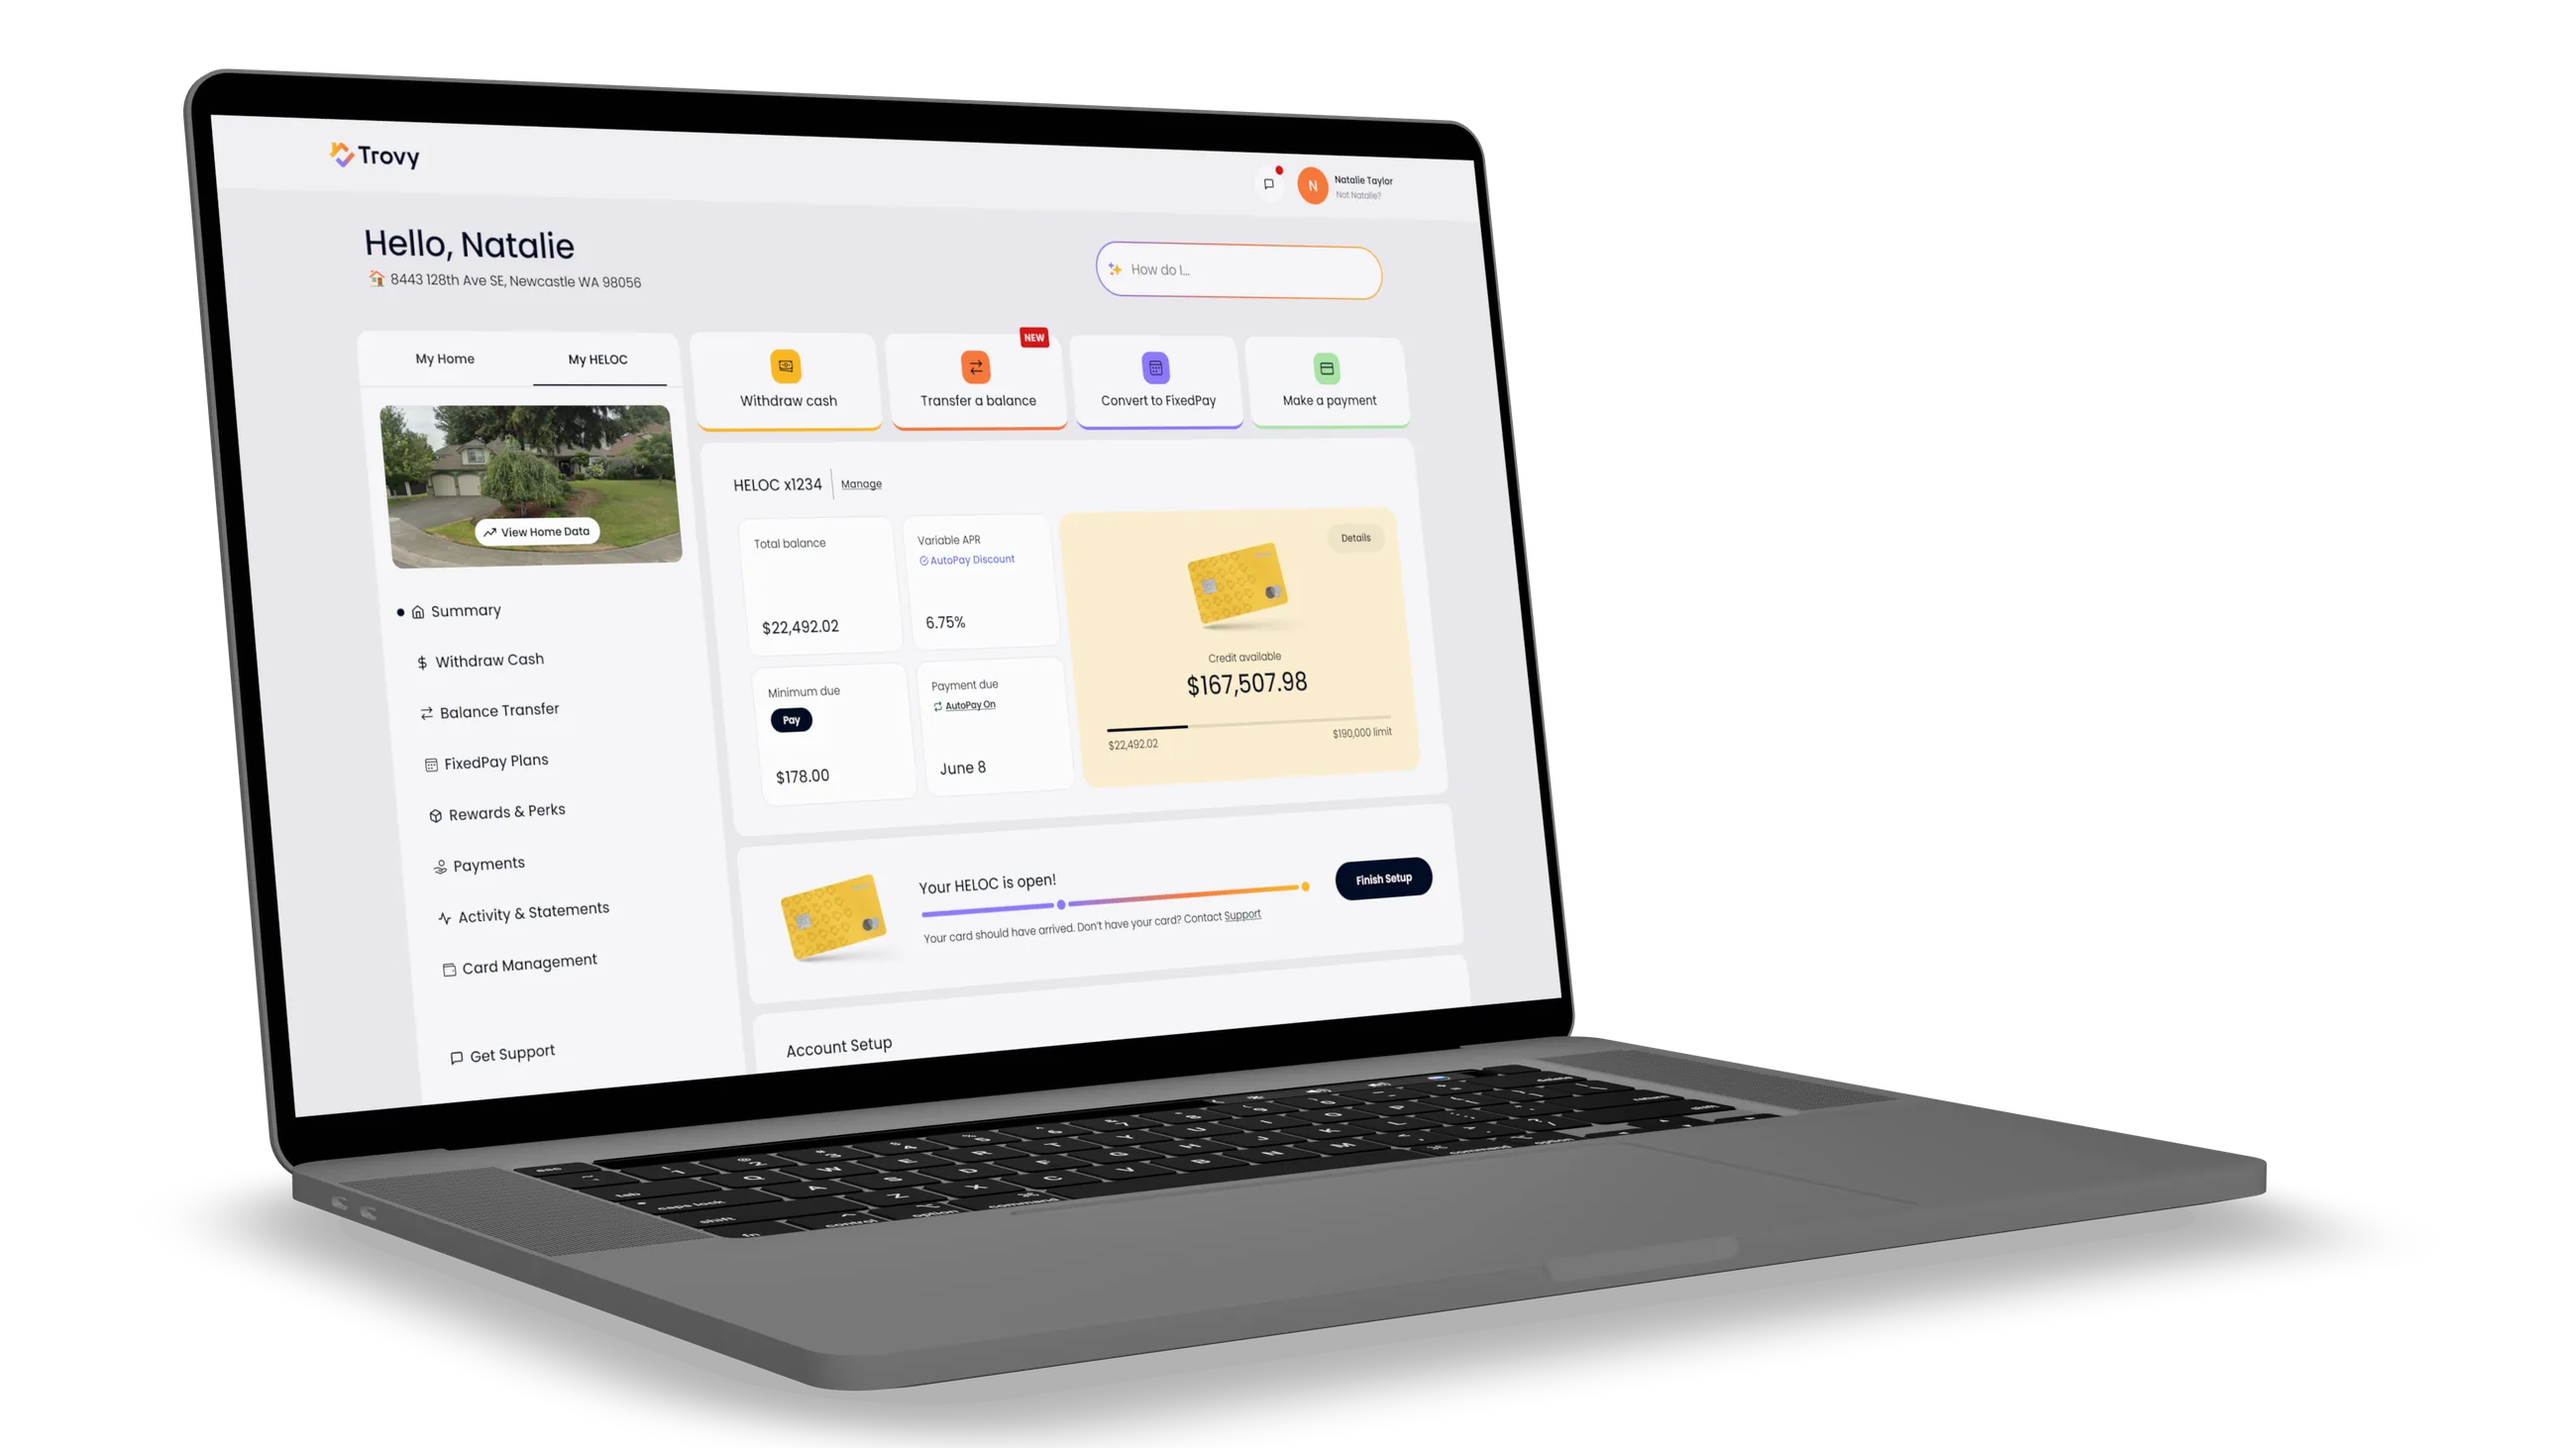
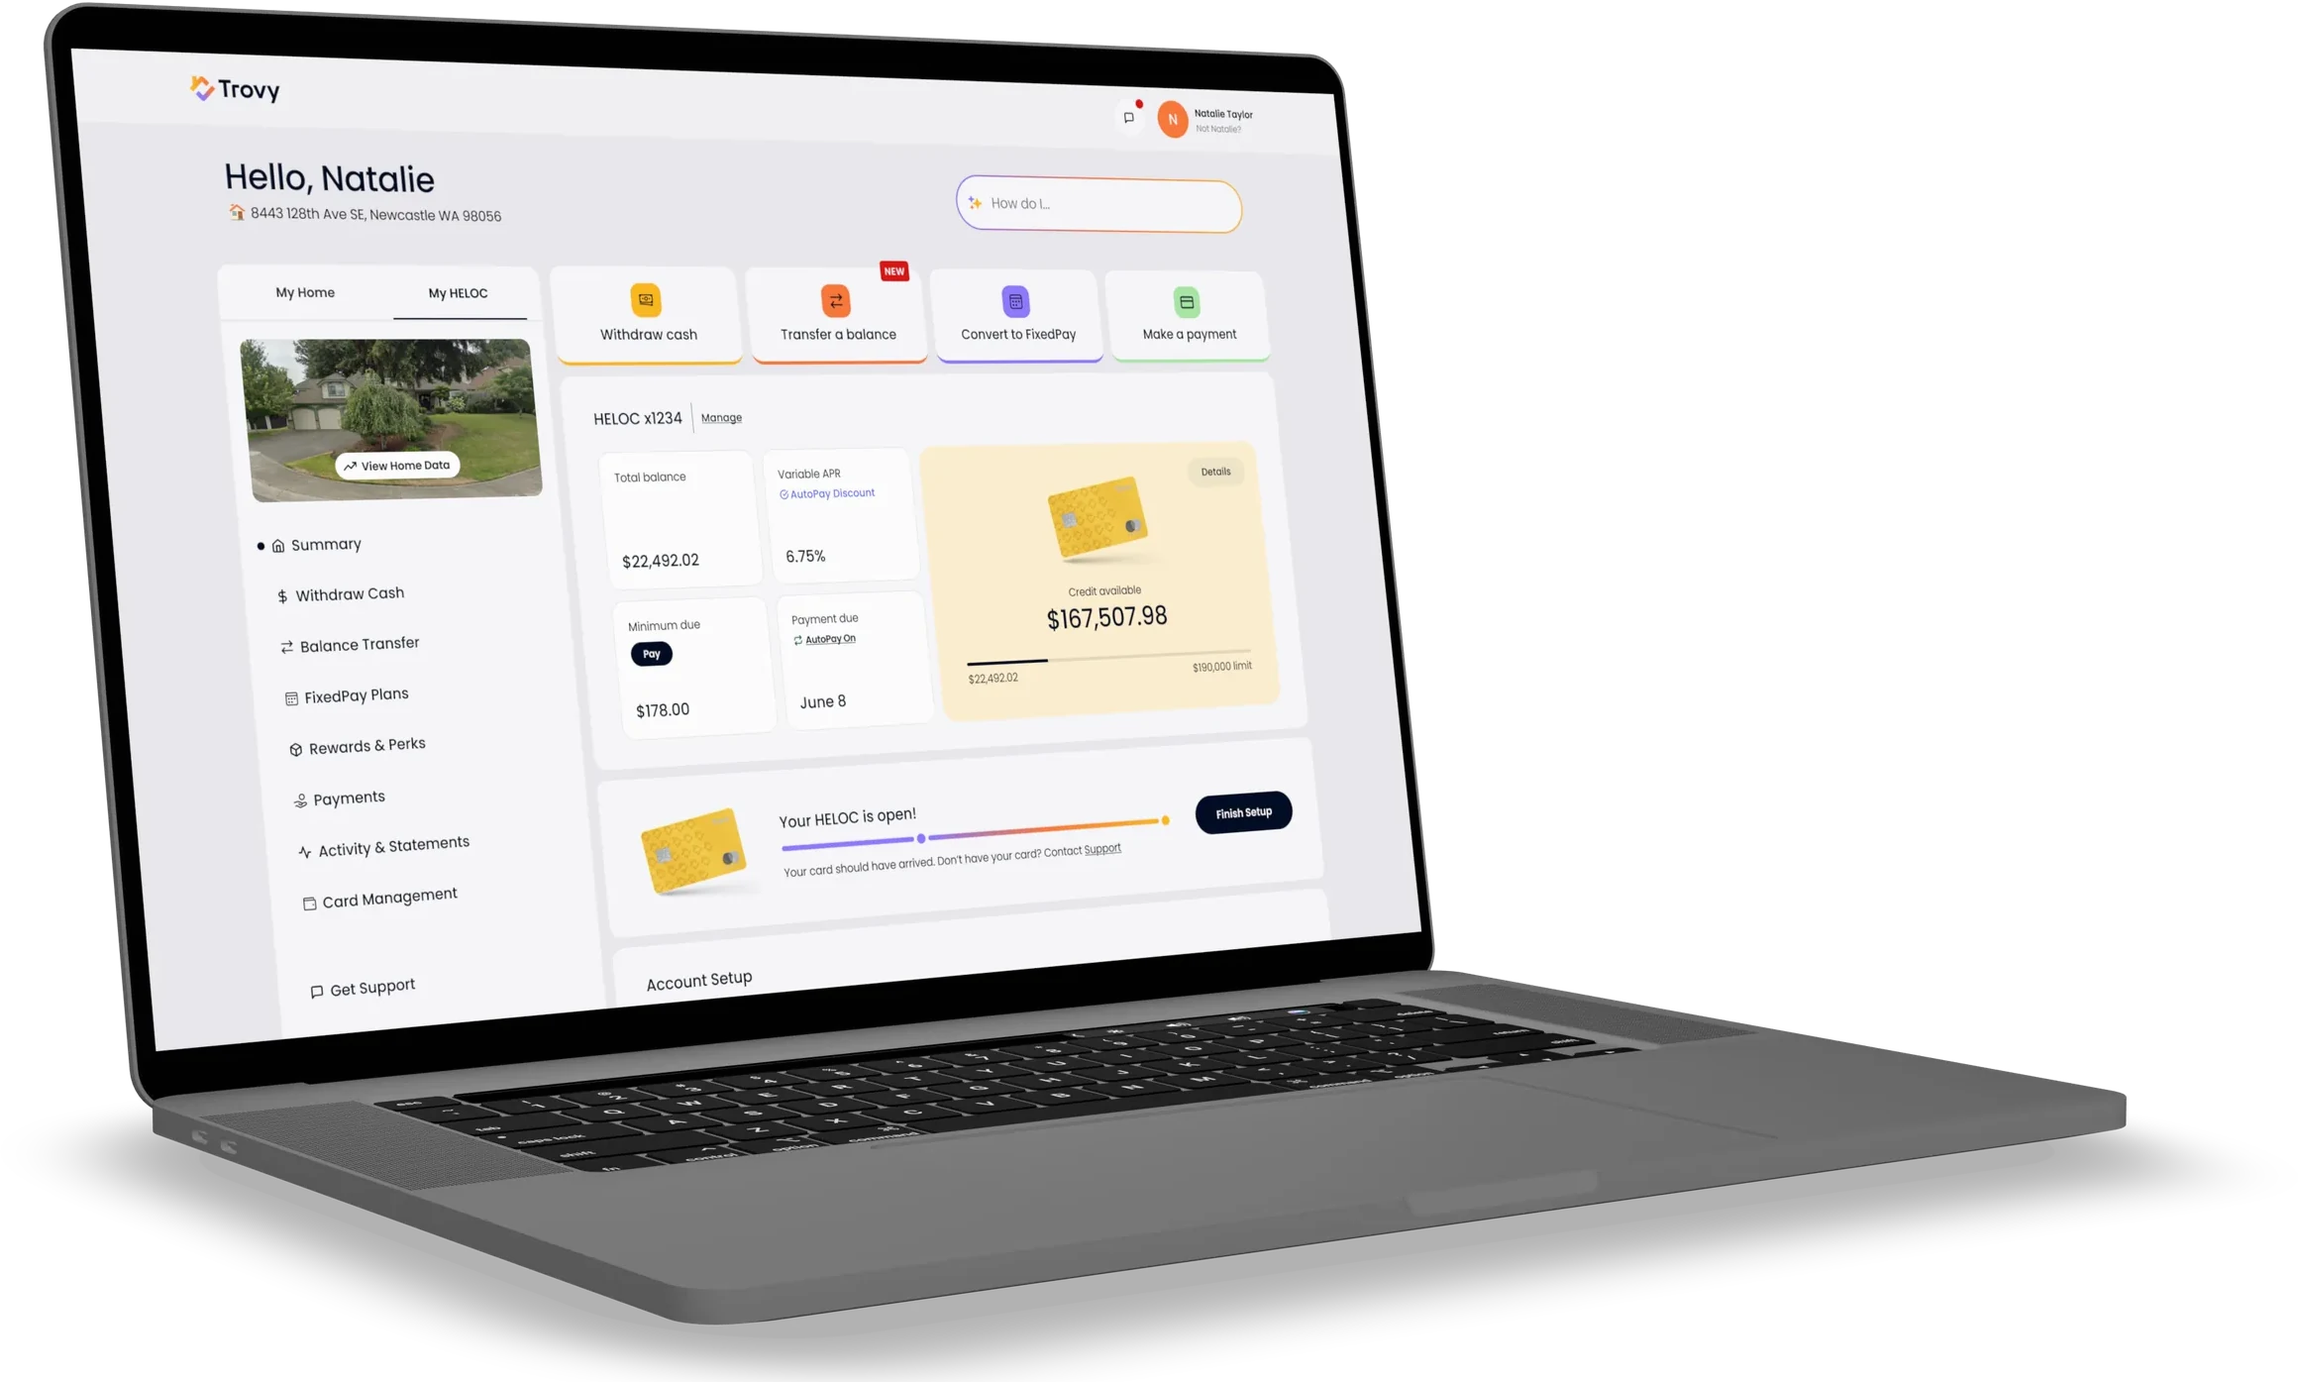
Trovy: center the Renovate and Job 2 device compositions (crop laptop images to their content), drop the faint box behind the Renovate phone
Claude-Session: https://claude.ai/code/session_01CMDmWeShGjW6J6maayvQQe

diff --git a/site/case-studies/trovy-design-engineer/index.html b/site/case-studies/trovy-design-engineer/index.html
@@ -70,7 +70,7 @@
           <p class="tv-b22 tv-mt56" data-a>Trovy went from 0–100MM PMV in one year of operation by relentlessly alleviating friction in the application flow. A HELOC is one of the cheapest ways to borrow, but it usually means weeks of paperwork and a draw request every time you need money. Trovy is a fully online HELOC, $25k to $250k, with the line on a card: swipe it at a low variable rate, take out cash or pay off balances at a fixed rate. Approval in as little as 4 minutes, funding in as few as 4 business days.</p>
           <p class="tv-cta tv-mt56" data-a>Tap through the prequal flow to see for yourself.</p></div><div class="ab tc" style="--x:1109;--y:77;--w:399"><div class="tv-phone" data-a><iframe data-src="../../proto/trovy-apply/" title="Interactive prototype of the Trovy application" tabindex="-1"></iframe></div>
           <p class="tv-hint" data-a>Live prototype · tap through it</p></div><div class="ab tv-noteab" style="--x:1523;--y:70;--w:150"><img class="tv-note" data-a src="../../assets/cs/trovy/v2/note-apply.webp" alt="Handwritten note: Figma + Claude"></div></div></div></section><section class="cs-slide cs-v4 tv2 cs-job2 " data-key="job2" data-chapter="0" data-steps="1" data-bg="linear-gradient(180deg,#fb793a 0%,#fdba1f 100%)" aria-label="job2"><div class="cs-fit"><div class="cs-scene"><div class="ab tc" style="--x:227;--y:72;--w:1275"><h2 class="sh64" data-a>Job 2: Go beyond table stakes.</h2>
-          <p class="tv-b28 tv-w951" data-a>I designed the functionality that’s expected from any fintech product, in order to then build something delightful and distinctive.</p></div><div class="ab " style="--x:329;--y:270;--w:1318;--h:741"><img class="tv-fill" data-a src="../../assets/cs/trovy/v2/laptop-dash.webp" alt="The Trovy account dashboard on a laptop: credit available, quick actions and account setup" loading="lazy"></div></div></div></section><section class="cs-slide cs-v4 tv2 cs-brand " data-key="brand" data-chapter="0" data-steps="1" data-bg="#ffd435" aria-label="brand"><div class="cs-fit"><div class="cs-scene"><div class="ab " style="--x:60;--y:82;--w:1608"><div class="tv-split"><h2 class="sh64" data-a>Who’s that brand?</h2>
+          <p class="tv-b28 tv-w951" data-a>I designed the functionality that’s expected from any fintech product, in order to then build something delightful and distinctive.</p></div><div class="ab " style="--x:276;--y:304;--w:1176;--h:707"><img class="tv-fill" data-a src="../../assets/cs/trovy/v2/laptop-dash.webp" alt="The Trovy account dashboard on a laptop: credit available, quick actions and account setup" loading="lazy"></div></div></div></section><section class="cs-slide cs-v4 tv2 cs-brand " data-key="brand" data-chapter="0" data-steps="1" data-bg="#ffd435" aria-label="brand"><div class="cs-fit"><div class="cs-scene"><div class="ab " style="--x:60;--y:82;--w:1608"><div class="tv-split"><h2 class="sh64" data-a>Who’s that brand?</h2>
           <p class="tv-b24 tr" data-a>I wanted to break out of the fintech blue/green palette and develop a memorable fintech brand with a provocative signature color. Trovy Gold was reminiscent of sunshine in your backyard, or, a treasure trove.</p></div></div><div class="ab tv-bleed" style="--x:-89;--y:269;--w:1906"><div class="tv-brandgrid" role="img" aria-label="Twelve Trovy brand pieces: logos, the gold palette, the card, ads and a billboard"><img data-a src="../../assets/cs/trovy/v2/brand-01.webp" alt="" loading="lazy"><img data-a src="../../assets/cs/trovy/v2/brand-02.webp" alt="" loading="lazy"><img data-a src="../../assets/cs/trovy/v2/brand-03.webp" alt="" loading="lazy"><img data-a src="../../assets/cs/trovy/v2/brand-04.webp" alt="" loading="lazy"><img data-a src="../../assets/cs/trovy/v2/brand-05.webp" alt="" loading="lazy"><img data-a src="../../assets/cs/trovy/v2/brand-06.webp" alt="" loading="lazy"><img data-a src="../../assets/cs/trovy/v2/brand-07.webp" alt="" loading="lazy"><img data-a src="../../assets/cs/trovy/v2/brand-08.webp" alt="" loading="lazy"><img data-a src="../../assets/cs/trovy/v2/brand-09.webp" alt="" loading="lazy"><img data-a src="../../assets/cs/trovy/v2/brand-10.webp" alt="" loading="lazy"><img data-a src="../../assets/cs/trovy/v2/brand-11.webp" alt="" loading="lazy"><img data-a src="../../assets/cs/trovy/v2/brand-12.webp" alt="" loading="lazy"></div></div></div></div></section><section class="cs-slide cs-v4 tv2 cs-home " data-key="home" data-chapter="1" data-steps="1" data-bg="linear-gradient(180deg,#fee3a5 0%,#f9f9fb 100%)" aria-label="home"><div class="cs-fit"><div class="cs-scene"><div class="ab " style="--x:60;--y:188;--w:434"><h2 class="sh48" data-a>Code without Figma? That’s not the vibe.</h2>
           <p class="tv-b22 tv-mt56" data-a>A designer’s superpower is the ability to succinctly communicate ideas visually. LLMs’ domain is words, and they don’t quite understand the adage “A picture says a thousand words.”</p>
           <p class="tv-b22 tv-mt33" data-a>I always start in Figma, but 75% of my time is spent tweaking and reacting in Claude Code. Here’s my first project: a new marketing site.</p>
@@ -78,8 +78,8 @@
             <div class="tv-browser-bar"><i></i><i></i><i></i><span>trovy.com</span></div>
             <iframe data-src="../../proto/trovy-home/" title="The coded Trovy homepage, live" loading="lazy" tabindex="-1"></iframe>
           </div>
-          <p class="tv-hint" data-a>Live build · scroll inside the frame</p></div></div></div></section><section class="cs-slide cs-v4 tv2 cs-renovate " data-key="renovate" data-chapter="2" data-steps="1" data-bg="linear-gradient(180deg,#fef0d4 0%,#fdf3df 45%,#f8f8f8 100%)" aria-label="renovate"><div class="cs-fit"><div class="cs-scene"><div class="ab tv-behind" style="--x:520;--y:268;--w:1318;--h:741"><img class="tv-fill" data-a src="../../assets/cs/trovy/v2/ren-laptop.webp" alt="Renovate with Trovy on a laptop: a warm minimalist kitchen design with its versions, estimate and Renault chat" loading="lazy"></div><div class="ab tc" style="--x:227;--y:82;--w:1275"><h2 class="sh48" data-a>My first big project: Renovate with Trovy</h2>
-          <p class="tv-b28 tv-mt32" data-a>Renovation is the biggest reason homeowners tap their equity, and the point where they are least sure what they want, what it costs and whom to hire.</p></div><div class="ab " style="--x:139;--y:389;--w:234;--h:586"><img class="tv-fill" data-a src="../../assets/cs/trovy/v2/ren-phone.webp" alt="Renovate with Trovy on a phone: the kitchen design with a before/after slider" loading="lazy"></div><div class="ab " style="--x:431;--y:373;--w:494;--h:335"><div class="tv-ba" data-a style="--p:43.7%" role="group" aria-label="Before and after: drag to compare">
+          <p class="tv-hint" data-a>Live build · scroll inside the frame</p></div></div></div></section><section class="cs-slide cs-v4 tv2 cs-renovate " data-key="renovate" data-chapter="2" data-steps="1" data-bg="linear-gradient(180deg,#fef0d4 0%,#fdf3df 45%,#f8f8f8 100%)" aria-label="renovate"><div class="cs-fit"><div class="cs-scene"><div class="ab tv-behind" style="--x:605;--y:317;--w:1036;--h:671"><img class="tv-fill" data-a src="../../assets/cs/trovy/v2/ren-laptop.webp" alt="Renovate with Trovy on a laptop: a warm minimalist kitchen design with its versions, estimate and Renault chat" loading="lazy"></div><div class="ab tc" style="--x:227;--y:82;--w:1275"><h2 class="sh48" data-a>My first big project: Renovate with Trovy</h2>
+          <p class="tv-b28 tv-mt32" data-a>Renovation is the biggest reason homeowners tap their equity, and the point where they are least sure what they want, what it costs and whom to hire.</p></div><div class="ab " style="--x:86;--y:389;--w:234;--h:586"><img class="tv-fill" data-a src="../../assets/cs/trovy/v2/ren-phone.webp" alt="Renovate with Trovy on a phone: the kitchen design with a before/after slider" loading="lazy"></div><div class="ab " style="--x:378;--y:373;--w:494;--h:335"><div class="tv-ba" data-a style="--p:43.7%" role="group" aria-label="Before and after: drag to compare">
             <img src="../../assets/cs/trovy/v2/ren-before.webp" alt="The kitchen before: oak cabinets and tile floor" draggable="false">
             <div class="tv-ba-after"><img src="../../assets/cs/trovy/v2/ren-after.webp" alt="The kitchen after: sage cabinets, brass hardware and wood floor" draggable="false"></div>
             <span class="tv-ba-pill">Before</span><span class="tv-ba-pill tv-ba-pill--after">After</span>

diff --git a/case_study_trovy.py b/case_study_trovy.py
@@ -101,7 +101,7 @@ def slides():
     job2 = scene('job2', 0,
         ab(227, 72, 1275, '''<h2 class="sh64" data-a>Job 2: Go beyond table stakes.</h2>
           <p class="tv-b28 tv-w951" data-a>I designed the functionality that’s expected from any fintech product, in order to then build something delightful and distinctive.</p>''', 'tc')
-        + ab(329, 270, 1318, pic(V2 + 'laptop-dash.webp', 'The Trovy account dashboard on a laptop: credit available, quick actions and account setup', 'tv-fill'), h=741))
+        + ab(276, 304, 1176, pic(V2 + 'laptop-dash.webp', 'The Trovy account dashboard on a laptop: credit available, quick actions and account setup', 'tv-fill'), h=707))
 
     brand_imgs = ''.join(f'<img data-a src="{{base}}{V2}brand-{i:02d}.webp" alt="" loading="lazy">' for i in range(1, 13))
     brand = scene('brand', 0,
@@ -121,11 +121,11 @@ def slides():
           <p class="tv-hint" data-a>Live build · scroll inside the frame</p>''', 'tc'))
 
     renovate = scene('renovate', 2,
-        ab(520, 268, 1318, pic(V2 + 'ren-laptop.webp', 'Renovate with Trovy on a laptop: a warm minimalist kitchen design with its versions, estimate and Renault chat', 'tv-fill'), 'tv-behind', h=741)
+        ab(605, 317, 1036, pic(V2 + 'ren-laptop.webp', 'Renovate with Trovy on a laptop: a warm minimalist kitchen design with its versions, estimate and Renault chat', 'tv-fill'), 'tv-behind', h=671)
         + ab(227, 82, 1275, '''<h2 class="sh48" data-a>My first big project: Renovate with Trovy</h2>
           <p class="tv-b28 tv-mt32" data-a>Renovation is the biggest reason homeowners tap their equity, and the point where they are least sure what they want, what it costs and whom to hire.</p>''', 'tc')
-        + ab(139, 389, 234, pic(V2 + 'ren-phone.webp', 'Renovate with Trovy on a phone: the kitchen design with a before/after slider', 'tv-fill'), h=586)
-        + ab(431, 373, 494, f'''<div class="tv-ba" data-a style="--p:43.7%" role="group" aria-label="Before and after: drag to compare">
+        + ab(86, 389, 234, pic(V2 + 'ren-phone.webp', 'Renovate with Trovy on a phone: the kitchen design with a before/after slider', 'tv-fill'), h=586)
+        + ab(378, 373, 494, f'''<div class="tv-ba" data-a style="--p:43.7%" role="group" aria-label="Before and after: drag to compare">
             <img src="{{base}}{V2}ren-before.webp" alt="The kitchen before: oak cabinets and tile floor" draggable="false">
             <div class="tv-ba-after"><img src="{{base}}{V2}ren-after.webp" alt="The kitchen after: sage cabinets, brass hardware and wood floor" draggable="false"></div>
             <span class="tv-ba-pill">Before</span><span class="tv-ba-pill tv-ba-pill--after">After</span>
